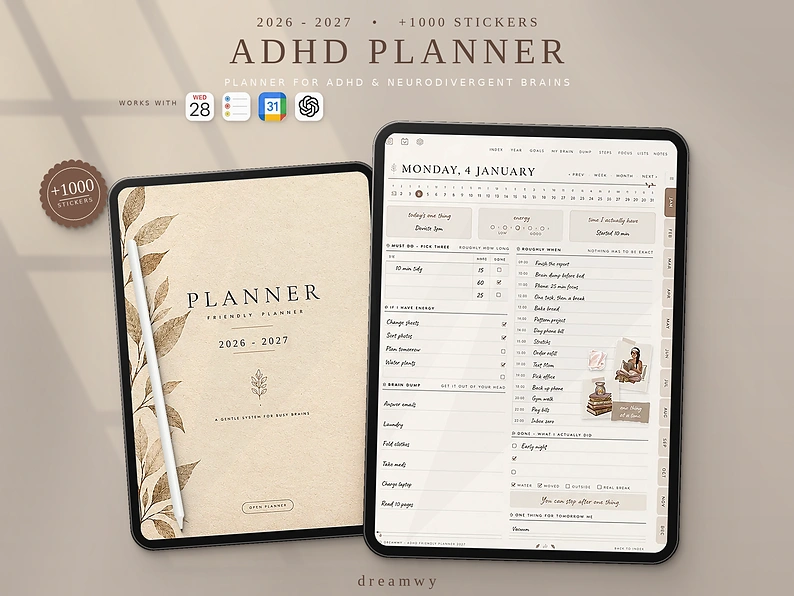
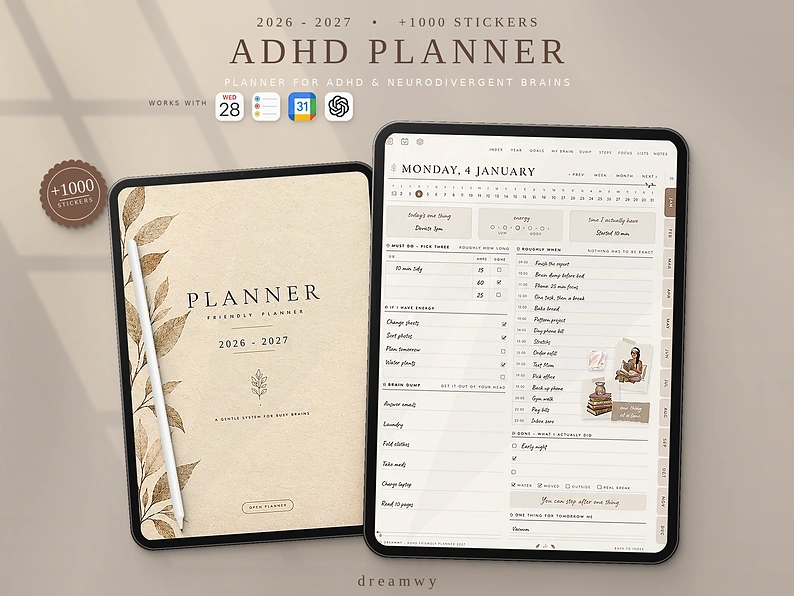
Mockup: nudge WORKS WITH row right
Claude-Session: https://claude.ai/code/session_015ZGVvYxuW9E1f2kNKHXQzt

Changed region(s): [[0.1511, 0.151, 0.4534, 0.2114]]

diff --git a/mockup/make_mockup.py b/mockup/make_mockup.py
@@ -310,7 +310,7 @@ IC = 88
 tiles = [i.resize((IC, IC), Image.LANCZOS).filter(ImageFilter.UnsharpMask(1.2, 90, 0)) for i in (icon_acal, icon_rem, icon_gcal, icon_gpt)]
 gap = 22
 lab_font = ImageFont.truetype(sans, 19)
-LEFT = 360                                         # left edge of the cover tablet
+LEFT = 450                                         # left edge of the cover tablet
 lab_w = sum(d.textlength(c, font=lab_font) for c in "WORKS WITH") + 5 * 9
 x0 = int(LEFT + lab_w + 28)
 mk_i = Image.new("L", (IC, IC), 0); ImageDraw.Draw(mk_i).rounded_rectangle((0, 0, IC - 1, IC - 1), radius=21, fill=255)
